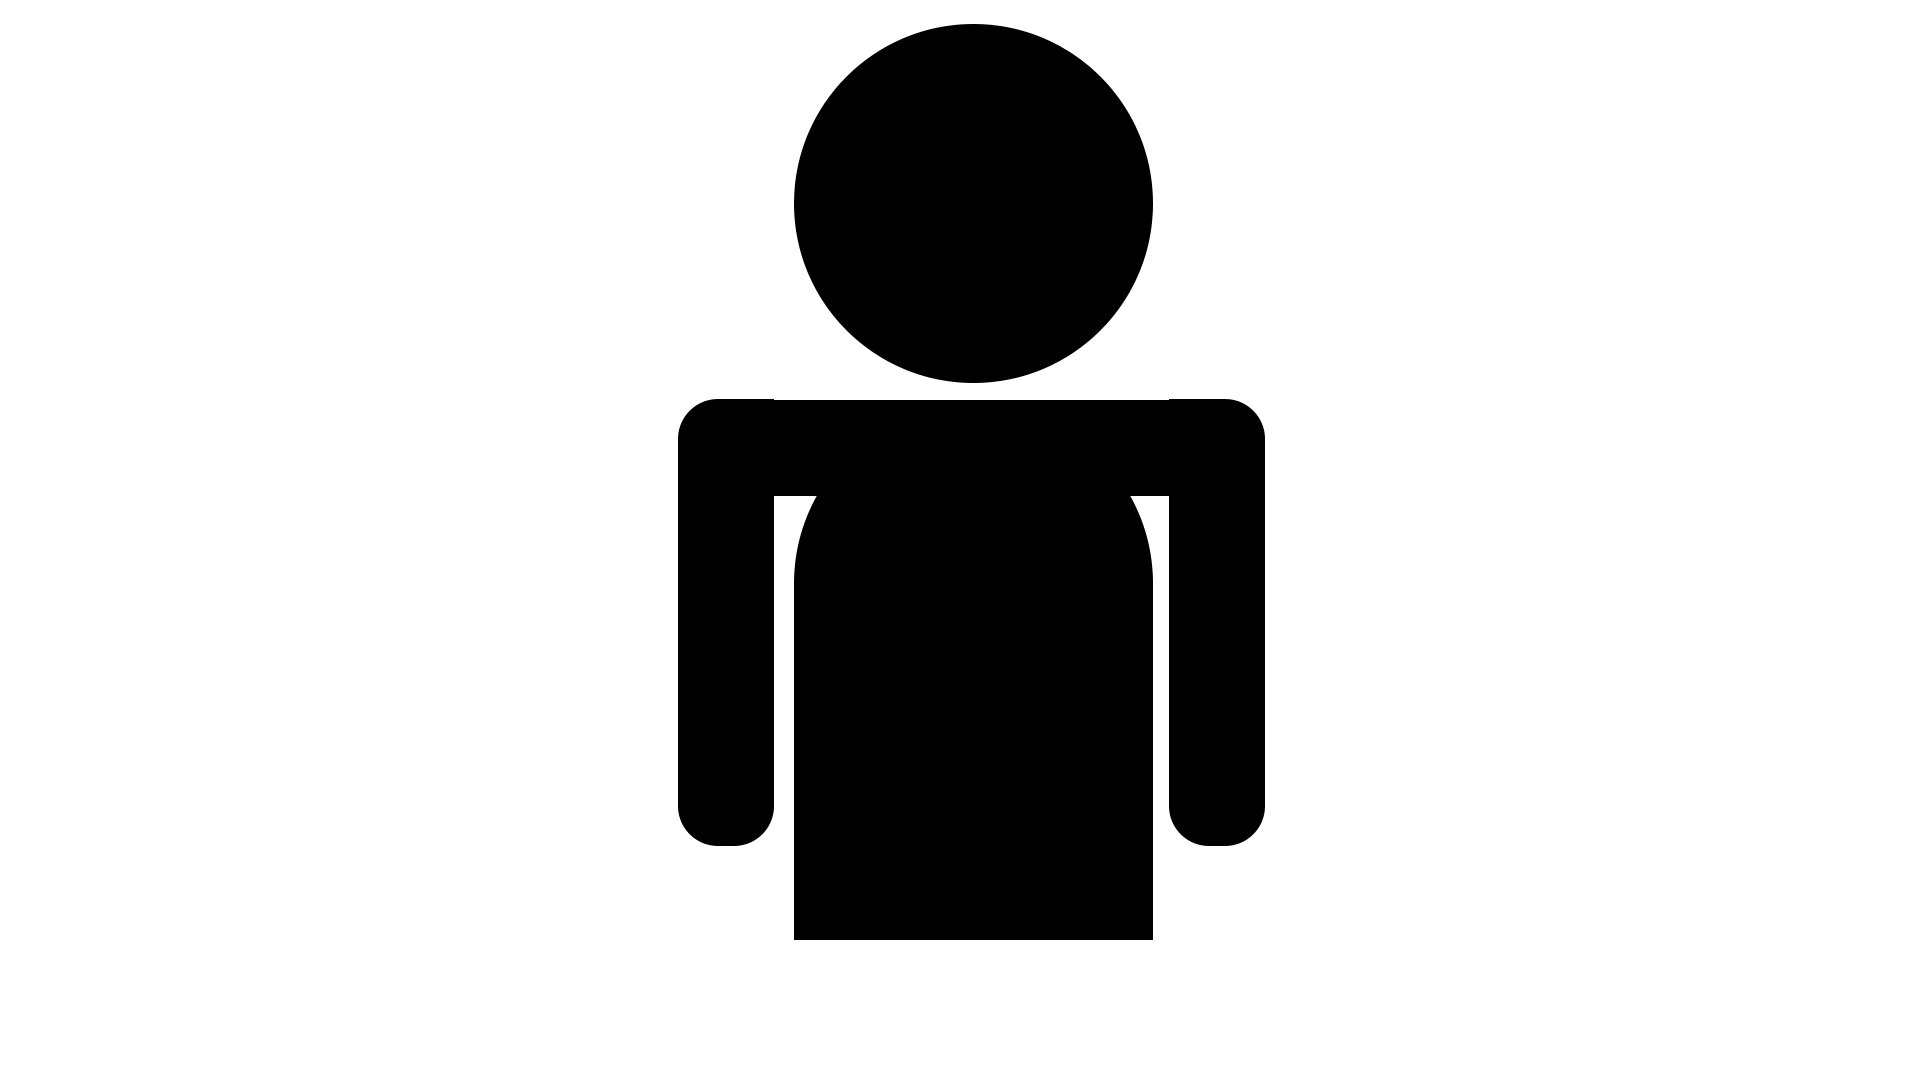
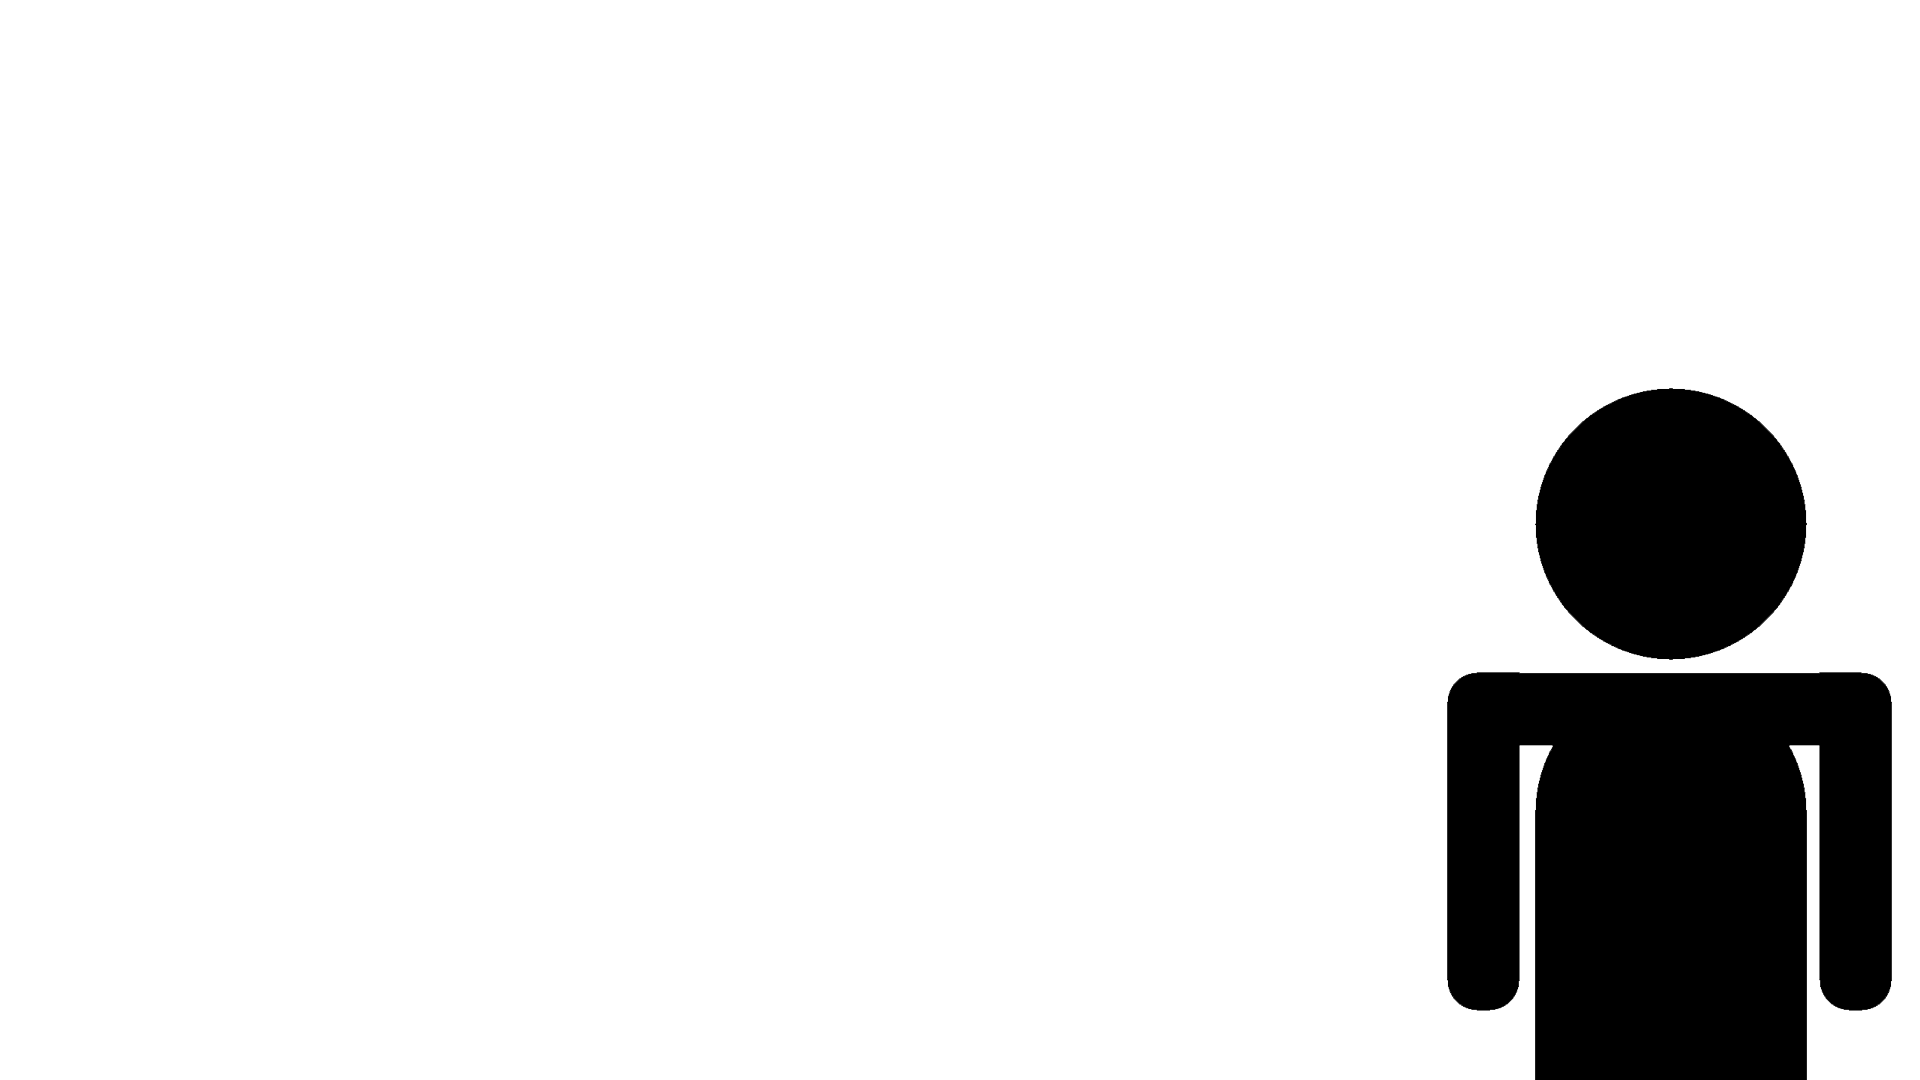
added black guy #racism

Changed region(s): [[0.3438, 0.0, 0.6562, 0.8861], [0.75, 0.3361, 1.0, 1.0]]

diff --git a/css/stylesheet.css b/css/stylesheet.css
@@ -5,15 +5,32 @@ html{
 	height:98%;
 	width:auto;
 	background-color:white;
-	background-position: center;
-	background-repeat: no-repeat;
 }
 
-#img{
-	float:right;
-	height:20%;
-	width:20%;
-	z-index:-1;
+#blackguy{
+	background-image:url("../img/blackguy.png	");
+	width:15%;
+	height:30%;
+	background-position: center;
+	background-size: contain;
+	background-repeat: no-repeat;
+	right: 0;
+	position: fixed;
+	text-align: center;
+	bottom: 0;
+}
+
+#blackguy:hover{
+	background-image:url("../img/blackguyhey.png	");
+	width:15%;
+	height:30%;
+	background-position: center;
+	background-size: contain;
+	background-repeat: no-repeat;
+	right: 0;
+	position: fixed;
+	text-align: center;
+	bottom: 0;
 }
 
 #scriptPrint{

diff --git a/index.html b/index.html
@@ -19,12 +19,13 @@ feel free to copy my code but PLEASE JUST GIVE ME CREDIT -__- Have a nice day --
 			<button id = "abonnement" class = "button" onclick="window.location.href='abonnement.html'"><a href = "abonnement.html">Abonnement</a></button>
 			<button id = "storing" class = "button" onclick="window.location.href='storing.html'"><a href = "storing.html">Storing</a></button>
 		</div>
-		<div id="img">
-			<img src="img/datimage.png"/>
-		</div>
 	</div>
 	<footer>
 		<!-- EMPTY-->
 	</footer>
+	<div id ="blackguy">
+		<!--EMPTY-->
+		<!--Nearly forgot #racism-->
+	</div>
 </body>
 </html>

diff --git a/klacht.html b/klacht.html
@@ -18,12 +18,13 @@ feel free to copy my code but PLEASE JUST GIVE ME CREDIT -__- Have a nice day --
 			<script type="text/javascript" src="script/javascript.js"></script>
 			<script>klachtRun()</script>
 		</div>
-		<div id="img">
-			<img src="img/datimage.png"/>
-		</div>
 	</div>
 	<footer>
 		<!-- EMPTY-->
 	</footer>
+	<div id ="blackguy">
+		<!--EMPTY-->
+		<!--Nearly forgot #racism-->
+	</div>
 </body>
 </html>
